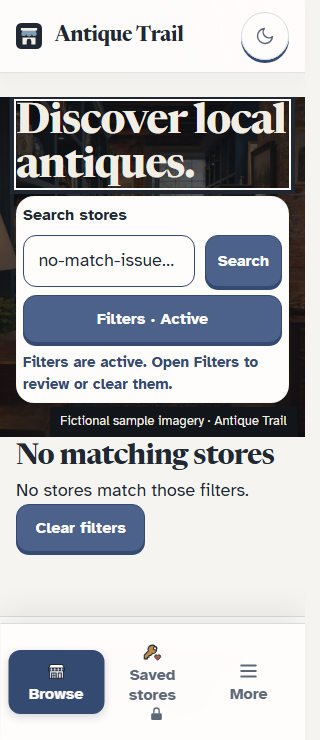
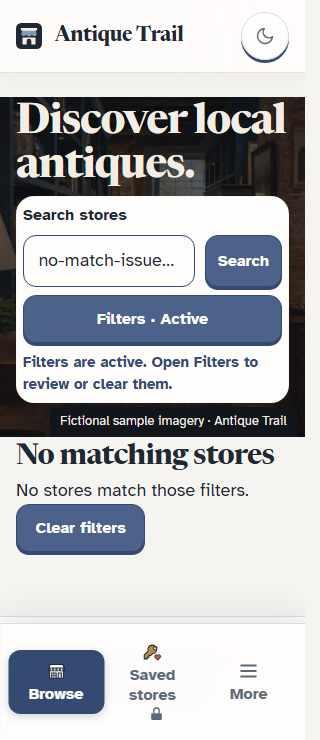
recapture issue 469 review states

diff --git a/docs/evidence/issue-469/acceptance.md b/docs/evidence/issue-469/acceptance.md
@@ -11,7 +11,7 @@
 - Source PR head before this evidence-only update: `2c10124a0b7f2a9c942aab30a90614682423d45e`.
 - Diff fingerprint: `4c580d4f9efbad294465fe6ce32d2ad8b52839b9` for the application and regression-test files listed below against the current PR base.
 - Branch: `codex/issue-469-browse-results-viewport` in its isolated ticket worktree.
-- Evidence captured at: 2026-10-02 14:25 CDT, local Windows Chromium and Vite review harness.
+- Evidence captured at: 2026-10-02 14:37 CDT, local Windows Chromium and Vite review harness.
 
 ## Scope
 
@@ -37,7 +37,7 @@ GitHub CI on the previously pushed PR head `395151ab888f8bbc7de30f6594643bdd08d6
 
 ### Rendered evidence
 
-Screenshots use local synthetic catalog fixtures. The before captures retain the local-only review banner; after viewport captures hide only the DEV-only `.review-harness-banner`. The fictional-listing disclosure and public demo notice remain visible. Search captures wait for the cover image to load. Browser console and page errors were empty.
+Screenshots use local synthetic catalog fixtures. Before captures retain the local-only review banner. After captures dispatch a synthetic `pointerdown` to select the app's pointer-input styling; the route H1 remains focused for announcement, while its keyboard focus ring is suppressed by existing CSS. Captures hide only the DEV-only `.review-harness-banner`. The fictional-listing disclosure and public demo notice remain visible. Search captures wait for the cover image to load. Browser console and page errors were empty.
 
 | View                       | Before                                                   | After                                                                             |
 | -------------------------- | -------------------------------------------------------- | --------------------------------------------------------------------------------- |
